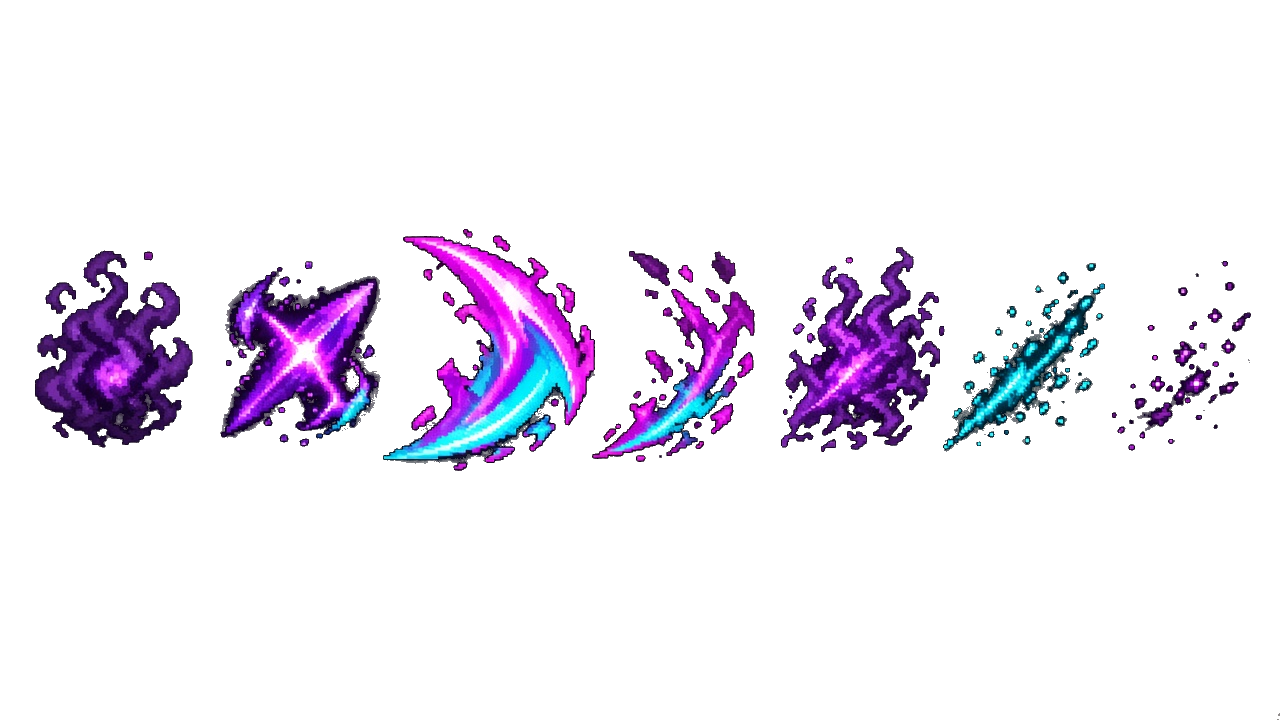
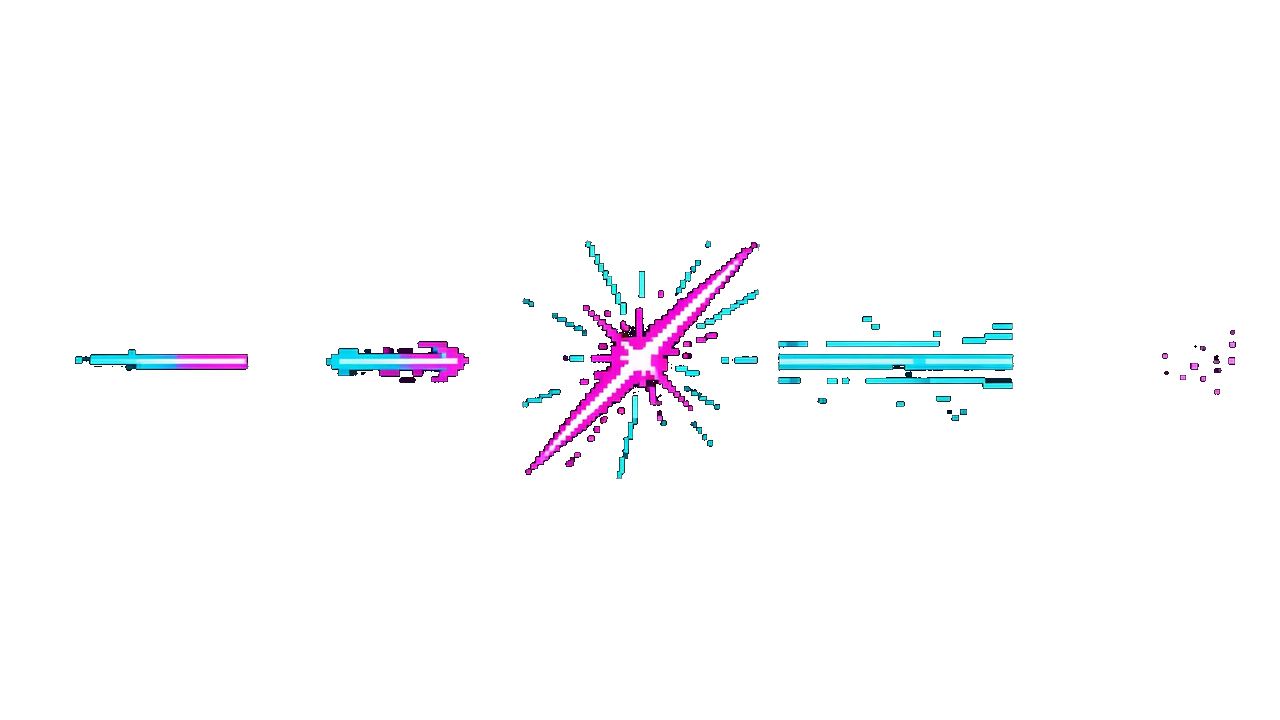
Wire Ambush slash strip v5 (Soft Lock feel)
Soft Lock Feel: Ambush slash strip v5 post-plant SNAP (380ms). Quiet Luca. Presentation only.

Changed region(s): [[0.0, 0.3056, 1.0, 0.6722]]

diff --git a/docs/ship_log.md b/docs/ship_log.md
@@ -2,6 +2,12 @@
 
 Durable record of feel passes on the mobile track. Kit numbers in here are reminders of what stayed Locked. They are not a second source of truth. The legal sentences live in `docs/STASIUM_XII_GDD_handoff.md`.
 
+## 2026-09-27 — Ambush slash strip v5
+
+Presentation only. No APK. Kit numbers, Ambush legality, Invisible Soft Lock, the 22, and AP costs are unchanged. Soft Lock pending Rosie rematch.
+
+`ambush_slash.png` is the v5 transparent strip: 1280×720, five cells (anticipate, wind, SNAP peak, settle trails, fade). Magenta/cyan. Scenario `asset_zCcVxFNBWSMQ1vzsgA2Dfp5S`. The gray cell frame and the black field are not played. Holds are 80+120+90+50+40 ms (380ms, inside 0.2–0.4s). The SNAP cell opens on the contact. The strip is anchored on the planted Gloam at the back tile and faces the struck body. The v4 peak plate stays unwired. The stamp plays this one strip.
+
 ## 2026-09-27 — Mark Shot cast bow v4
 
 Presentation only. No APK. Kit numbers and ranges are unchanged.
